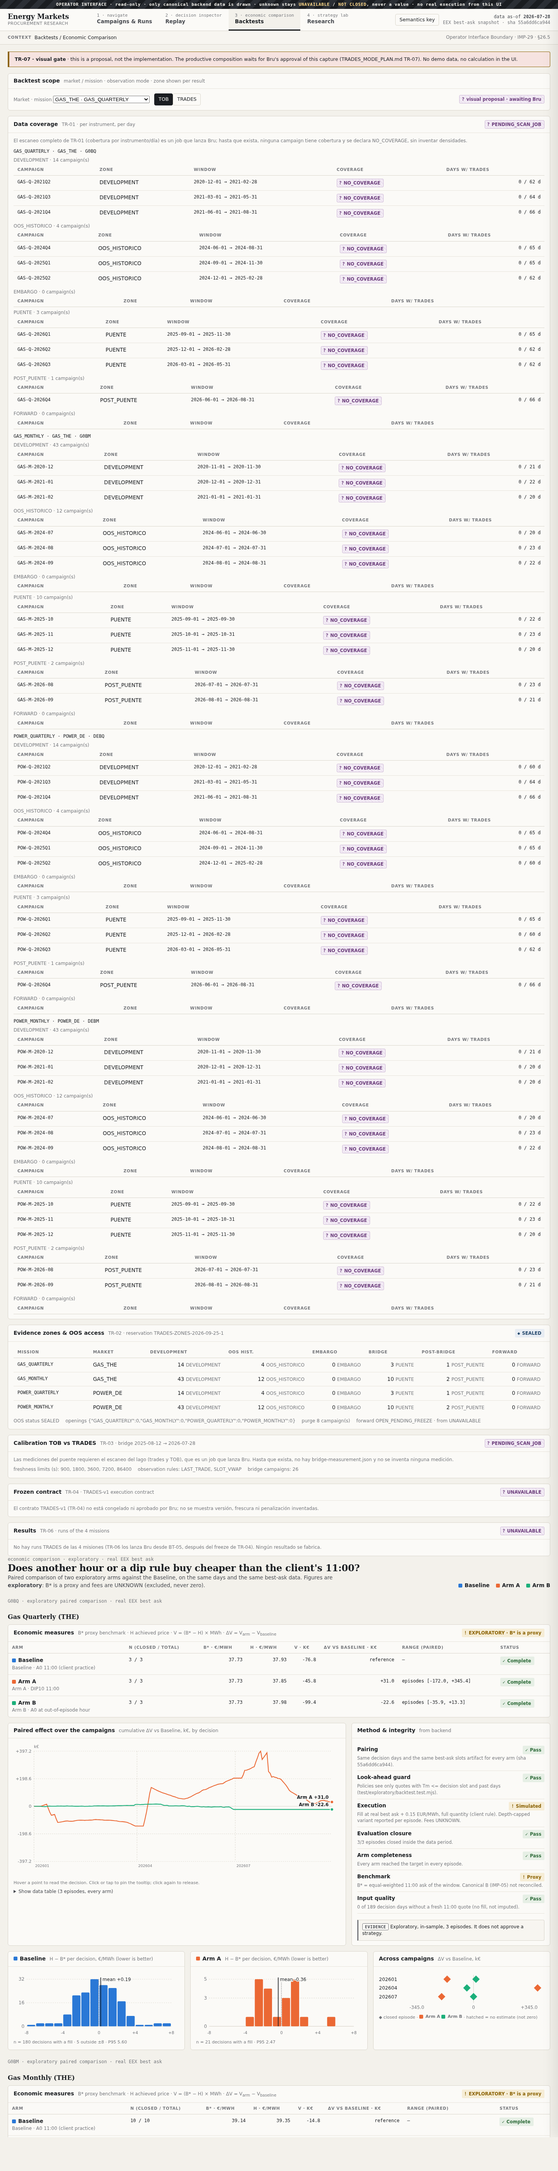
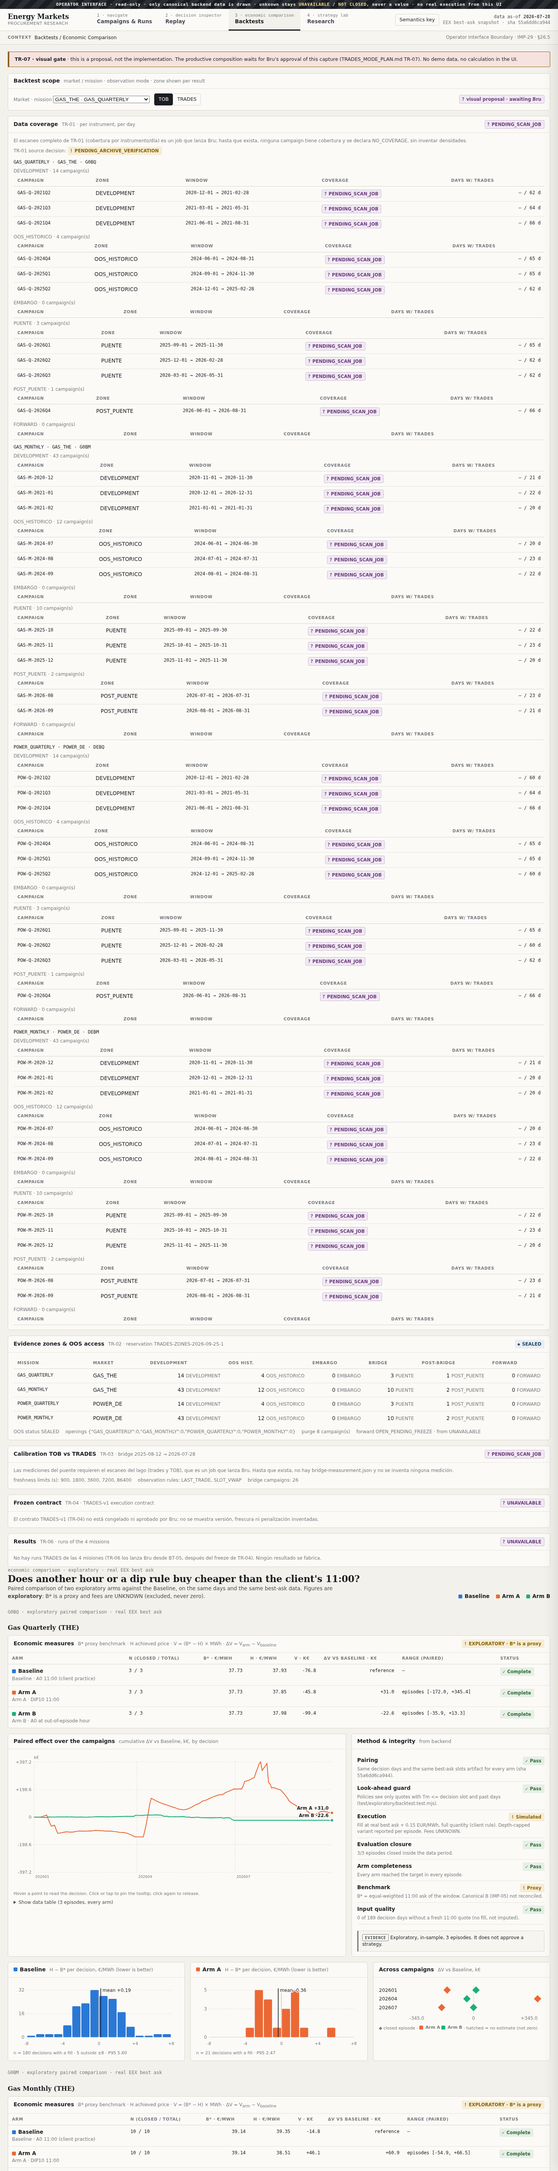
TR-07: corrige el estado de fuente TR-01 y no propaga ceros no medidos

diff --git a/operations/trades/TR-07/prototipo-tr07.html b/operations/trades/TR-07/prototipo-tr07.html
@@ -408,7 +408,8 @@ ul.events-list > li.event:last-child { border-bottom: 0; }
   </div>
   <div class="card" style="margin-top:14px" data-tr07="coverage">
     <div class="hd"><h3>Data coverage</h3><span class="small muted">TR-01 · per instrument, per day</span><span class="grow"></span><span class="st unk"><span class="g">?</span>PENDING_SCAN_JOB</span></div>
-    <div class="bd"><div class="small muted">El escaneo completo de TR-01 (cobertura por instrumento/día) es un job que lanza Bru; hasta que exista, ninguna campaign tiene cobertura y se declara NO_COVERAGE, sin inventar densidades.</div><div style="margin-top:10px"><div class="mono small">GAS_QUARTERLY · GAS_THE · G0BQ</div><div class="small muted" style="margin-top:6px">DEVELOPMENT · 14 campaign(s)</div><table class="t"><thead><tr><th>Campaign</th><th>Zone</th><th>Window</th><th>Coverage</th><th class="right">Days w/ trades</th></tr></thead><tbody><tr><td class="mono small">GAS-Q-2021Q2</td><td>DEVELOPMENT</td><td class="mono small">2020-12-01 → 2021-02-28</td><td><span class="st unk"><span class="g">?</span>NO_COVERAGE</span></td><td class="right mono">0 / 62 d</td></tr><tr><td class="mono small">GAS-Q-2021Q3</td><td>DEVELOPMENT</td><td class="mono small">2021-03-01 → 2021-05-31</td><td><span class="st unk"><span class="g">?</span>NO_COVERAGE</span></td><td class="right mono">0 / 64 d</td></tr><tr><td class="mono small">GAS-Q-2021Q4</td><td>DEVELOPMENT</td><td class="mono small">2021-06-01 → 2021-08-31</td><td><span class="st unk"><span class="g">?</span>NO_COVERAGE</span></td><td class="right mono">0 / 66 d</td></tr></tbody></table><div class="small muted" style="margin-top:6px">OOS_HISTORICO · 4 campaign(s)</div><table class="t"><thead><tr><th>Campaign</th><th>Zone</th><th>Window</th><th>Coverage</th><th class="right">Days w/ trades</th></tr></thead><tbody><tr><td class="mono small">GAS-Q-2024Q4</td><td>OOS_HISTORICO</td><td class="mono small">2024-06-01 → 2024-08-31</td><td><span class="st unk"><span class="g">?</span>NO_COVERAGE</span></td><td class="right mono">0 / 65 d</td></tr><tr><td class="mono small">GAS-Q-2025Q1</td><td>OOS_HISTORICO</td><td class="mono small">2024-09-01 → 2024-11-30</td><td><span class="st unk"><span class="g">?</span>NO_COVERAGE</span></td><td class="right mono">0 / 65 d</td></tr><tr><td class="mono small">GAS-Q-2025Q2</td><td>OOS_HISTORICO</td><td class="mono small">2024-12-01 → 2025-02-28</td><td><span class="st unk"><span class="g">?</span>NO_COVERAGE</span></td><td class="right mono">0 / 62 d</td></tr></tbody></table><div class="small muted" style="margin-top:6px">EMBARGO · 0 campaign(s)</div><table class="t"><thead><tr><th>Campaign</th><th>Zone</th><th>Window</th><th>Coverage</th><th class="right">Days w/ trades</th></tr></thead><tbody></tbody></table><div class="small muted" style="margin-top:6px">PUENTE · 3 campaign(s)</div><table class="t"><thead><tr><th>Campaign</th><th>Zone</th><th>Window</th><th>Coverage</th><th class="right">Days w/ trades</th></tr></thead><tbody><tr><td class="mono small">GAS-Q-2026Q1</td><td>PUENTE</td><td class="mono small">2025-09-01 → 2025-11-30</td><td><span class="st unk"><span class="g">?</span>NO_COVERAGE</span></td><td class="right mono">0 / 65 d</td></tr><tr><td class="mono small">GAS-Q-2026Q2</td><td>PUENTE</td><td class="mono small">2025-12-01 → 2026-02-28</td><td><span class="st unk"><span class="g">?</span>NO_COVERAGE</span></td><td class="right mono">0 / 62 d</td></tr><tr><td class="mono small">GAS-Q-2026Q3</td><td>PUENTE</td><td class="mono small">2026-03-01 → 2026-05-31</td><td><span class="st unk"><span class="g">?</span>NO_COVERAGE</span></td><td class="right mono">0 / 62 d</td></tr></tbody></table><div class="small muted" style="margin-top:6px">POST_PUENTE · 1 campaign(s)</div><table class="t"><thead><tr><th>Campaign</th><th>Zone</th><th>Window</th><th>Coverage</th><th class="right">Days w/ trades</th></tr></thead><tbody><tr><td class="mono small">GAS-Q-2026Q4</td><td>POST_PUENTE</td><td class="mono small">2026-06-01 → 2026-08-31</td><td><span class="st unk"><span class="g">?</span>NO_COVERAGE</span></td><td class="right mono">0 / 66 d</td></tr></tbody></table><div class="small muted" style="margin-top:6px">FORWARD · 0 campaign(s)</div><table class="t"><thead><tr><th>Campaign</th><th>Zone</th><th>Window</th><th>Coverage</th><th class="right">Days w/ trades</th></tr></thead><tbody></tbody></table></div><div style="margin-top:10px"><div class="mono small">GAS_MONTHLY · GAS_THE · G0BM</div><div class="small muted" style="margin-top:6px">DEVELOPMENT · 43 campaign(s)</div><table class="t"><thead><tr><th>Campaign</th><th>Zone</th><th>Window</th><th>Coverage</th><th class="right">Days w/ trades</th></tr></thead><tbody><tr><td class="mono small">GAS-M-2020-12</td><td>DEVELOPMENT</td><td class="mono small">2020-11-01 → 2020-11-30</td><td><span class="st unk"><span class="g">?</span>NO_COVERAGE</span></td><td class="right mono">0 / 21 d</td></tr><tr><td class="mono small">GAS-M-2021-01</td><td>DEVELOPMENT</td><td class="mono small">2020-12-01 → 2020-12-31</td><td><span class="st unk"><span class="g">?</span>NO_COVERAGE</span></td><td class="right mono">0 / 22 d</td></tr><tr><td class="mono small">GAS-M-2021-02</td><td>DEVELOPMENT</td><td class="mono small">2021-01-01 → 2021-01-31</td><td><span class="st unk"><span class="g">?</span>NO_COVERAGE</span></td><td class="right mono">0 / 20 d</td></tr></tbody></table><div class="small muted" style="margin-top:6px">OOS_HISTORICO · 12 campaign(s)</div><table class="t"><thead><tr><th>Campaign</th><th>Zone</th><th>Window</th><th>Coverage</th><th class="right">Days w/ trades</th></tr></thead><tbody><tr><td class="mono small">GAS-M-2024-07</td><td>OOS_HISTORICO</td><td class="mono small">2024-06-01 → 2024-06-30</td><td><span class="st unk"><span class="g">?</span>NO_COVERAGE</span></td><td class="right mono">0 / 20 d</td></tr><tr><td class="mono small">GAS-M-2024-08</td><td>OOS_HISTORICO</td><td class="mono small">2024-07-01 → 2024-07-31</td><td><span class="st unk"><span class="g">?</span>NO_COVERAGE</span></td><td class="right mono">0 / 23 d</td></tr><tr><td class="mono small">GAS-M-2024-09</td><td>OOS_HISTORICO</td><td class="mono small">2024-08-01 → 2024-08-31</td><td><span class="st unk"><span class="g">?</span>NO_COVERAGE</span></td><td class="right mono">0 / 22 d</td></tr></tbody></table><div class="small muted" style="margin-top:6px">EMBARGO · 0 campaign(s)</div><table class="t"><thead><tr><th>Campaign</th><th>Zone</th><th>Window</th><th>Coverage</th><th class="right">Days w/ trades</th></tr></thead><tbody></tbody></table><div class="small muted" style="margin-top:6px">PUENTE · 10 campaign(s)</div><table class="t"><thead><tr><th>Campaign</th><th>Zone</th><th>Window</th><th>Coverage</th><th class="right">Days w/ trades</th></tr></thead><tbody><tr><td class="mono small">GAS-M-2025-10</td><td>PUENTE</td><td class="mono small">2025-09-01 → 2025-09-30</td><td><span class="st unk"><span class="g">?</span>NO_COVERAGE</span></td><td class="right mono">0 / 22 d</td></tr><tr><td class="mono small">GAS-M-2025-11</td><td>PUENTE</td><td class="mono small">2025-10-01 → 2025-10-31</td><td><span class="st unk"><span class="g">?</span>NO_COVERAGE</span></td><td class="right mono">0 / 23 d</td></tr><tr><td class="mono small">GAS-M-2025-12</td><td>PUENTE</td><td class="mono small">2025-11-01 → 2025-11-30</td><td><span class="st unk"><span class="g">?</span>NO_COVERAGE</span></td><td class="right mono">0 / 20 d</td></tr></tbody></table><div class="small muted" style="margin-top:6px">POST_PUENTE · 2 campaign(s)</div><table class="t"><thead><tr><th>Campaign</th><th>Zone</th><th>Window</th><th>Coverage</th><th class="right">Days w/ trades</th></tr></thead><tbody><tr><td class="mono small">GAS-M-2026-08</td><td>POST_PUENTE</td><td class="mono small">2026-07-01 → 2026-07-31</td><td><span class="st unk"><span class="g">?</span>NO_COVERAGE</span></td><td class="right mono">0 / 23 d</td></tr><tr><td class="mono small">GAS-M-2026-09</td><td>POST_PUENTE</td><td class="mono small">2026-08-01 → 2026-08-31</td><td><span class="st unk"><span class="g">?</span>NO_COVERAGE</span></td><td class="right mono">0 / 21 d</td></tr></tbody></table><div class="small muted" style="margin-top:6px">FORWARD · 0 campaign(s)</div><table class="t"><thead><tr><th>Campaign</th><th>Zone</th><th>Window</th><th>Coverage</th><th class="right">Days w/ trades</th></tr></thead><tbody></tbody></table></div><div style="margin-top:10px"><div class="mono small">POWER_QUARTERLY · POWER_DE · DEBQ</div><div class="small muted" style="margin-top:6px">DEVELOPMENT · 14 campaign(s)</div><table class="t"><thead><tr><th>Campaign</th><th>Zone</th><th>Window</th><th>Coverage</th><th class="right">Days w/ trades</th></tr></thead><tbody><tr><td class="mono small">POW-Q-2021Q2</td><td>DEVELOPMENT</td><td class="mono small">2020-12-01 → 2021-02-28</td><td><span class="st unk"><span class="g">?</span>NO_COVERAGE</span></td><td class="right mono">0 / 60 d</td></tr><tr><td class="mono small">POW-Q-2021Q3</td><td>DEVELOPMENT</td><td class="mono small">2021-03-01 → 2021-05-31</td><td><span class="st unk"><span class="g">?</span>NO_COVERAGE</span></td><td class="right mono">0 / 64 d</td></tr><tr><td class="mono small">POW-Q-2021Q4</td><td>DEVELOPMENT</td><td class="mono small">2021-06-01 → 2021-08-31</td><td><span class="st unk"><span class="g">?</span>NO_COVERAGE</span></td><td class="right mono">0 / 66 d</td></tr></tbody></table><div class="small muted" style="margin-top:6px">OOS_HISTORICO · 4 campaign(s)</div><table class="t"><thead><tr><th>Campaign</th><th>Zone</th><th>Window</th><th>Coverage</th><th class="right">Days w/ trades</th></tr></thead><tbody><tr><td class="mono small">POW-Q-2024Q4</td><td>OOS_HISTORICO</td><td class="mono small">2024-06-01 → 2024-08-31</td><td><span class="st unk"><span class="g">?</span>NO_COVERAGE</span></td><td class="right mono">0 / 65 d</td></tr><tr><td class="mono small">POW-Q-2025Q1</td><td>OOS_HISTORICO</td><td class="mono small">2024-09-01 → 2024-11-30</td><td><span class="st unk"><span class="g">?</span>NO_COVERAGE</span></td><td class="right mono">0 / 65 d</td></tr><tr><td class="mono small">POW-Q-2025Q2</td><td>OOS_HISTORICO</td><td class="mono small">2024-12-01 → 2025-02-28</td><td><span class="st unk"><span class="g">?</span>NO_COVERAGE</span></td><td class="right mono">0 / 60 d</td></tr></tbody></table><div class="small muted" style="margin-top:6px">EMBARGO · 0 campaign(s)</div><table class="t"><thead><tr><th>Campaign</th><th>Zone</th><th>Window</th><th>Coverage</th><th class="right">Days w/ trades</th></tr></thead><tbody></tbody></table><div class="small muted" style="margin-top:6px">PUENTE · 3 campaign(s)</div><table class="t"><thead><tr><th>Campaign</th><th>Zone</th><th>Window</th><th>Coverage</th><th class="right">Days w/ trades</th></tr></thead><tbody><tr><td class="mono small">POW-Q-2026Q1</td><td>PUENTE</td><td class="mono small">2025-09-01 → 2025-11-30</td><td><span class="st unk"><span class="g">?</span>NO_COVERAGE</span></td><td class="right mono">0 / 65 d</td></tr><tr><td class="mono small">POW-Q-2026Q2</td><td>PUENTE</td><td class="mono small">2025-12-01 → 2026-02-28</td><td><span class="st unk"><span class="g">?</span>NO_COVERAGE</span></td><td class="right mono">0 / 60 d</td></tr><tr><td class="mono small">POW-Q-2026Q3</td><td>PUENTE</td><td class="mono small">2026-03-01 → 2026-05-31</td><td><span class="st unk"><span class="g">?</span>NO_COVERAGE</span></td><td class="right mono">0 / 62 d</td></tr></tbody></table><div class="small muted" style="margin-top:6px">POST_PUENTE · 1 campaign(s)</div><table class="t"><thead><tr><th>Campaign</th><th>Zone</th><th>Window</th><th>Coverage</th><th class="right">Days w/ trades</th></tr></thead><tbody><tr><td class="mono small">POW-Q-2026Q4</td><td>POST_PUENTE</td><td class="mono small">2026-06-01 → 2026-08-31</td><td><span class="st unk"><span class="g">?</span>NO_COVERAGE</span></td><td class="right mono">0 / 66 d</td></tr></tbody></table><div class="small muted" style="margin-top:6px">FORWARD · 0 campaign(s)</div><table class="t"><thead><tr><th>Campaign</th><th>Zone</th><th>Window</th><th>Coverage</th><th class="right">Days w/ trades</th></tr></thead><tbody></tbody></table></div><div style="margin-top:10px"><div class="mono small">POWER_MONTHLY · POWER_DE · DEBM</div><div class="small muted" style="margin-top:6px">DEVELOPMENT · 43 campaign(s)</div><table class="t"><thead><tr><th>Campaign</th><th>Zone</th><th>Window</th><th>Coverage</th><th class="right">Days w/ trades</th></tr></thead><tbody><tr><td class="mono small">POW-M-2020-12</td><td>DEVELOPMENT</td><td class="mono small">2020-11-01 → 2020-11-30</td><td><span class="st unk"><span class="g">?</span>NO_COVERAGE</span></td><td class="right mono">0 / 21 d</td></tr><tr><td class="mono small">POW-M-2021-01</td><td>DEVELOPMENT</td><td class="mono small">2020-12-01 → 2020-12-31</td><td><span class="st unk"><span class="g">?</span>NO_COVERAGE</span></td><td class="right mono">0 / 20 d</td></tr><tr><td class="mono small">POW-M-2021-02</td><td>DEVELOPMENT</td><td class="mono small">2021-01-01 → 2021-01-31</td><td><span class="st unk"><span class="g">?</span>NO_COVERAGE</span></td><td class="right mono">0 / 20 d</td></tr></tbody></table><div class="small muted" style="margin-top:6px">OOS_HISTORICO · 12 campaign(s)</div><table class="t"><thead><tr><th>Campaign</th><th>Zone</th><th>Window</th><th>Coverage</th><th class="right">Days w/ trades</th></tr></thead><tbody><tr><td class="mono small">POW-M-2024-07</td><td>OOS_HISTORICO</td><td class="mono small">2024-06-01 → 2024-06-30</td><td><span class="st unk"><span class="g">?</span>NO_COVERAGE</span></td><td class="right mono">0 / 20 d</td></tr><tr><td class="mono small">POW-M-2024-08</td><td>OOS_HISTORICO</td><td class="mono small">2024-07-01 → 2024-07-31</td><td><span class="st unk"><span class="g">?</span>NO_COVERAGE</span></td><td class="right mono">0 / 23 d</td></tr><tr><td class="mono small">POW-M-2024-09</td><td>OOS_HISTORICO</td><td class="mono small">2024-08-01 → 2024-08-31</td><td><span class="st unk"><span class="g">?</span>NO_COVERAGE</span></td><td class="right mono">0 / 22 d</td></tr></tbody></table><div class="small muted" style="margin-top:6px">EMBARGO · 0 campaign(s)</div><table class="t"><thead><tr><th>Campaign</th><th>Zone</th><th>Window</th><th>Coverage</th><th class="right">Days w/ trades</th></tr></thead><tbody></tbody></table><div class="small muted" style="margin-top:6px">PUENTE · 10 campaign(s)</div><table class="t"><thead><tr><th>Campaign</th><th>Zone</th><th>Window</th><th>Coverage</th><th class="right">Days w/ trades</th></tr></thead><tbody><tr><td class="mono small">POW-M-2025-10</td><td>PUENTE</td><td class="mono small">2025-09-01 → 2025-09-30</td><td><span class="st unk"><span class="g">?</span>NO_COVERAGE</span></td><td class="right mono">0 / 22 d</td></tr><tr><td class="mono small">POW-M-2025-11</td><td>PUENTE</td><td class="mono small">2025-10-01 → 2025-10-31</td><td><span class="st unk"><span class="g">?</span>NO_COVERAGE</span></td><td class="right mono">0 / 23 d</td></tr><tr><td class="mono small">POW-M-2025-12</td><td>PUENTE</td><td class="mono small">2025-11-01 → 2025-11-30</td><td><span class="st unk"><span class="g">?</span>NO_COVERAGE</span></td><td class="right mono">0 / 20 d</td></tr></tbody></table><div class="small muted" style="margin-top:6px">POST_PUENTE · 2 campaign(s)</div><table class="t"><thead><tr><th>Campaign</th><th>Zone</th><th>Window</th><th>Coverage</th><th class="right">Days w/ trades</th></tr></thead><tbody><tr><td class="mono small">POW-M-2026-08</td><td>POST_PUENTE</td><td class="mono small">2026-07-01 → 2026-07-31</td><td><span class="st unk"><span class="g">?</span>NO_COVERAGE</span></td><td class="right mono">0 / 23 d</td></tr><tr><td class="mono small">POW-M-2026-09</td><td>POST_PUENTE</td><td class="mono small">2026-08-01 → 2026-08-31</td><td><span class="st unk"><span class="g">?</span>NO_COVERAGE</span></td><td class="right mono">0 / 21 d</td></tr></tbody></table><div class="small muted" style="margin-top:6px">FORWARD · 0 campaign(s)</div><table class="t"><thead><tr><th>Campaign</th><th>Zone</th><th>Window</th><th>Coverage</th><th class="right">Days w/ trades</th></tr></thead><tbody></tbody></table></div></div>
+    <div class="bd"><div class="small muted">El escaneo completo de TR-01 (cobertura por instrumento/día) es un job que lanza Bru; hasta que exista, ninguna campaign tiene cobertura y se declara NO_COVERAGE, sin inventar densidades.</div>
+      <div class="small muted" style="margin-top:6px">TR-01 source decision: <span class="st warn"><span class="g">!</span>PENDING_ARCHIVE_VERIFICATION</span></div><div style="margin-top:10px"><div class="mono small">GAS_QUARTERLY · GAS_THE · G0BQ</div><div class="small muted" style="margin-top:6px">DEVELOPMENT · 14 campaign(s)</div><table class="t"><thead><tr><th>Campaign</th><th>Zone</th><th>Window</th><th>Coverage</th><th class="right">Days w/ trades</th></tr></thead><tbody><tr><td class="mono small">GAS-Q-2021Q2</td><td>DEVELOPMENT</td><td class="mono small">2020-12-01 → 2021-02-28</td><td><span class="st unk"><span class="g">?</span>PENDING_SCAN_JOB</span></td><td class="right mono">— / 62 d</td></tr><tr><td class="mono small">GAS-Q-2021Q3</td><td>DEVELOPMENT</td><td class="mono small">2021-03-01 → 2021-05-31</td><td><span class="st unk"><span class="g">?</span>PENDING_SCAN_JOB</span></td><td class="right mono">— / 64 d</td></tr><tr><td class="mono small">GAS-Q-2021Q4</td><td>DEVELOPMENT</td><td class="mono small">2021-06-01 → 2021-08-31</td><td><span class="st unk"><span class="g">?</span>PENDING_SCAN_JOB</span></td><td class="right mono">— / 66 d</td></tr></tbody></table><div class="small muted" style="margin-top:6px">OOS_HISTORICO · 4 campaign(s)</div><table class="t"><thead><tr><th>Campaign</th><th>Zone</th><th>Window</th><th>Coverage</th><th class="right">Days w/ trades</th></tr></thead><tbody><tr><td class="mono small">GAS-Q-2024Q4</td><td>OOS_HISTORICO</td><td class="mono small">2024-06-01 → 2024-08-31</td><td><span class="st unk"><span class="g">?</span>PENDING_SCAN_JOB</span></td><td class="right mono">— / 65 d</td></tr><tr><td class="mono small">GAS-Q-2025Q1</td><td>OOS_HISTORICO</td><td class="mono small">2024-09-01 → 2024-11-30</td><td><span class="st unk"><span class="g">?</span>PENDING_SCAN_JOB</span></td><td class="right mono">— / 65 d</td></tr><tr><td class="mono small">GAS-Q-2025Q2</td><td>OOS_HISTORICO</td><td class="mono small">2024-12-01 → 2025-02-28</td><td><span class="st unk"><span class="g">?</span>PENDING_SCAN_JOB</span></td><td class="right mono">— / 62 d</td></tr></tbody></table><div class="small muted" style="margin-top:6px">EMBARGO · 0 campaign(s)</div><table class="t"><thead><tr><th>Campaign</th><th>Zone</th><th>Window</th><th>Coverage</th><th class="right">Days w/ trades</th></tr></thead><tbody></tbody></table><div class="small muted" style="margin-top:6px">PUENTE · 3 campaign(s)</div><table class="t"><thead><tr><th>Campaign</th><th>Zone</th><th>Window</th><th>Coverage</th><th class="right">Days w/ trades</th></tr></thead><tbody><tr><td class="mono small">GAS-Q-2026Q1</td><td>PUENTE</td><td class="mono small">2025-09-01 → 2025-11-30</td><td><span class="st unk"><span class="g">?</span>PENDING_SCAN_JOB</span></td><td class="right mono">— / 65 d</td></tr><tr><td class="mono small">GAS-Q-2026Q2</td><td>PUENTE</td><td class="mono small">2025-12-01 → 2026-02-28</td><td><span class="st unk"><span class="g">?</span>PENDING_SCAN_JOB</span></td><td class="right mono">— / 62 d</td></tr><tr><td class="mono small">GAS-Q-2026Q3</td><td>PUENTE</td><td class="mono small">2026-03-01 → 2026-05-31</td><td><span class="st unk"><span class="g">?</span>PENDING_SCAN_JOB</span></td><td class="right mono">— / 62 d</td></tr></tbody></table><div class="small muted" style="margin-top:6px">POST_PUENTE · 1 campaign(s)</div><table class="t"><thead><tr><th>Campaign</th><th>Zone</th><th>Window</th><th>Coverage</th><th class="right">Days w/ trades</th></tr></thead><tbody><tr><td class="mono small">GAS-Q-2026Q4</td><td>POST_PUENTE</td><td class="mono small">2026-06-01 → 2026-08-31</td><td><span class="st unk"><span class="g">?</span>PENDING_SCAN_JOB</span></td><td class="right mono">— / 66 d</td></tr></tbody></table><div class="small muted" style="margin-top:6px">FORWARD · 0 campaign(s)</div><table class="t"><thead><tr><th>Campaign</th><th>Zone</th><th>Window</th><th>Coverage</th><th class="right">Days w/ trades</th></tr></thead><tbody></tbody></table></div><div style="margin-top:10px"><div class="mono small">GAS_MONTHLY · GAS_THE · G0BM</div><div class="small muted" style="margin-top:6px">DEVELOPMENT · 43 campaign(s)</div><table class="t"><thead><tr><th>Campaign</th><th>Zone</th><th>Window</th><th>Coverage</th><th class="right">Days w/ trades</th></tr></thead><tbody><tr><td class="mono small">GAS-M-2020-12</td><td>DEVELOPMENT</td><td class="mono small">2020-11-01 → 2020-11-30</td><td><span class="st unk"><span class="g">?</span>PENDING_SCAN_JOB</span></td><td class="right mono">— / 21 d</td></tr><tr><td class="mono small">GAS-M-2021-01</td><td>DEVELOPMENT</td><td class="mono small">2020-12-01 → 2020-12-31</td><td><span class="st unk"><span class="g">?</span>PENDING_SCAN_JOB</span></td><td class="right mono">— / 22 d</td></tr><tr><td class="mono small">GAS-M-2021-02</td><td>DEVELOPMENT</td><td class="mono small">2021-01-01 → 2021-01-31</td><td><span class="st unk"><span class="g">?</span>PENDING_SCAN_JOB</span></td><td class="right mono">— / 20 d</td></tr></tbody></table><div class="small muted" style="margin-top:6px">OOS_HISTORICO · 12 campaign(s)</div><table class="t"><thead><tr><th>Campaign</th><th>Zone</th><th>Window</th><th>Coverage</th><th class="right">Days w/ trades</th></tr></thead><tbody><tr><td class="mono small">GAS-M-2024-07</td><td>OOS_HISTORICO</td><td class="mono small">2024-06-01 → 2024-06-30</td><td><span class="st unk"><span class="g">?</span>PENDING_SCAN_JOB</span></td><td class="right mono">— / 20 d</td></tr><tr><td class="mono small">GAS-M-2024-08</td><td>OOS_HISTORICO</td><td class="mono small">2024-07-01 → 2024-07-31</td><td><span class="st unk"><span class="g">?</span>PENDING_SCAN_JOB</span></td><td class="right mono">— / 23 d</td></tr><tr><td class="mono small">GAS-M-2024-09</td><td>OOS_HISTORICO</td><td class="mono small">2024-08-01 → 2024-08-31</td><td><span class="st unk"><span class="g">?</span>PENDING_SCAN_JOB</span></td><td class="right mono">— / 22 d</td></tr></tbody></table><div class="small muted" style="margin-top:6px">EMBARGO · 0 campaign(s)</div><table class="t"><thead><tr><th>Campaign</th><th>Zone</th><th>Window</th><th>Coverage</th><th class="right">Days w/ trades</th></tr></thead><tbody></tbody></table><div class="small muted" style="margin-top:6px">PUENTE · 10 campaign(s)</div><table class="t"><thead><tr><th>Campaign</th><th>Zone</th><th>Window</th><th>Coverage</th><th class="right">Days w/ trades</th></tr></thead><tbody><tr><td class="mono small">GAS-M-2025-10</td><td>PUENTE</td><td class="mono small">2025-09-01 → 2025-09-30</td><td><span class="st unk"><span class="g">?</span>PENDING_SCAN_JOB</span></td><td class="right mono">— / 22 d</td></tr><tr><td class="mono small">GAS-M-2025-11</td><td>PUENTE</td><td class="mono small">2025-10-01 → 2025-10-31</td><td><span class="st unk"><span class="g">?</span>PENDING_SCAN_JOB</span></td><td class="right mono">— / 23 d</td></tr><tr><td class="mono small">GAS-M-2025-12</td><td>PUENTE</td><td class="mono small">2025-11-01 → 2025-11-30</td><td><span class="st unk"><span class="g">?</span>PENDING_SCAN_JOB</span></td><td class="right mono">— / 20 d</td></tr></tbody></table><div class="small muted" style="margin-top:6px">POST_PUENTE · 2 campaign(s)</div><table class="t"><thead><tr><th>Campaign</th><th>Zone</th><th>Window</th><th>Coverage</th><th class="right">Days w/ trades</th></tr></thead><tbody><tr><td class="mono small">GAS-M-2026-08</td><td>POST_PUENTE</td><td class="mono small">2026-07-01 → 2026-07-31</td><td><span class="st unk"><span class="g">?</span>PENDING_SCAN_JOB</span></td><td class="right mono">— / 23 d</td></tr><tr><td class="mono small">GAS-M-2026-09</td><td>POST_PUENTE</td><td class="mono small">2026-08-01 → 2026-08-31</td><td><span class="st unk"><span class="g">?</span>PENDING_SCAN_JOB</span></td><td class="right mono">— / 21 d</td></tr></tbody></table><div class="small muted" style="margin-top:6px">FORWARD · 0 campaign(s)</div><table class="t"><thead><tr><th>Campaign</th><th>Zone</th><th>Window</th><th>Coverage</th><th class="right">Days w/ trades</th></tr></thead><tbody></tbody></table></div><div style="margin-top:10px"><div class="mono small">POWER_QUARTERLY · POWER_DE · DEBQ</div><div class="small muted" style="margin-top:6px">DEVELOPMENT · 14 campaign(s)</div><table class="t"><thead><tr><th>Campaign</th><th>Zone</th><th>Window</th><th>Coverage</th><th class="right">Days w/ trades</th></tr></thead><tbody><tr><td class="mono small">POW-Q-2021Q2</td><td>DEVELOPMENT</td><td class="mono small">2020-12-01 → 2021-02-28</td><td><span class="st unk"><span class="g">?</span>PENDING_SCAN_JOB</span></td><td class="right mono">— / 60 d</td></tr><tr><td class="mono small">POW-Q-2021Q3</td><td>DEVELOPMENT</td><td class="mono small">2021-03-01 → 2021-05-31</td><td><span class="st unk"><span class="g">?</span>PENDING_SCAN_JOB</span></td><td class="right mono">— / 64 d</td></tr><tr><td class="mono small">POW-Q-2021Q4</td><td>DEVELOPMENT</td><td class="mono small">2021-06-01 → 2021-08-31</td><td><span class="st unk"><span class="g">?</span>PENDING_SCAN_JOB</span></td><td class="right mono">— / 66 d</td></tr></tbody></table><div class="small muted" style="margin-top:6px">OOS_HISTORICO · 4 campaign(s)</div><table class="t"><thead><tr><th>Campaign</th><th>Zone</th><th>Window</th><th>Coverage</th><th class="right">Days w/ trades</th></tr></thead><tbody><tr><td class="mono small">POW-Q-2024Q4</td><td>OOS_HISTORICO</td><td class="mono small">2024-06-01 → 2024-08-31</td><td><span class="st unk"><span class="g">?</span>PENDING_SCAN_JOB</span></td><td class="right mono">— / 65 d</td></tr><tr><td class="mono small">POW-Q-2025Q1</td><td>OOS_HISTORICO</td><td class="mono small">2024-09-01 → 2024-11-30</td><td><span class="st unk"><span class="g">?</span>PENDING_SCAN_JOB</span></td><td class="right mono">— / 65 d</td></tr><tr><td class="mono small">POW-Q-2025Q2</td><td>OOS_HISTORICO</td><td class="mono small">2024-12-01 → 2025-02-28</td><td><span class="st unk"><span class="g">?</span>PENDING_SCAN_JOB</span></td><td class="right mono">— / 60 d</td></tr></tbody></table><div class="small muted" style="margin-top:6px">EMBARGO · 0 campaign(s)</div><table class="t"><thead><tr><th>Campaign</th><th>Zone</th><th>Window</th><th>Coverage</th><th class="right">Days w/ trades</th></tr></thead><tbody></tbody></table><div class="small muted" style="margin-top:6px">PUENTE · 3 campaign(s)</div><table class="t"><thead><tr><th>Campaign</th><th>Zone</th><th>Window</th><th>Coverage</th><th class="right">Days w/ trades</th></tr></thead><tbody><tr><td class="mono small">POW-Q-2026Q1</td><td>PUENTE</td><td class="mono small">2025-09-01 → 2025-11-30</td><td><span class="st unk"><span class="g">?</span>PENDING_SCAN_JOB</span></td><td class="right mono">— / 65 d</td></tr><tr><td class="mono small">POW-Q-2026Q2</td><td>PUENTE</td><td class="mono small">2025-12-01 → 2026-02-28</td><td><span class="st unk"><span class="g">?</span>PENDING_SCAN_JOB</span></td><td class="right mono">— / 60 d</td></tr><tr><td class="mono small">POW-Q-2026Q3</td><td>PUENTE</td><td class="mono small">2026-03-01 → 2026-05-31</td><td><span class="st unk"><span class="g">?</span>PENDING_SCAN_JOB</span></td><td class="right mono">— / 62 d</td></tr></tbody></table><div class="small muted" style="margin-top:6px">POST_PUENTE · 1 campaign(s)</div><table class="t"><thead><tr><th>Campaign</th><th>Zone</th><th>Window</th><th>Coverage</th><th class="right">Days w/ trades</th></tr></thead><tbody><tr><td class="mono small">POW-Q-2026Q4</td><td>POST_PUENTE</td><td class="mono small">2026-06-01 → 2026-08-31</td><td><span class="st unk"><span class="g">?</span>PENDING_SCAN_JOB</span></td><td class="right mono">— / 66 d</td></tr></tbody></table><div class="small muted" style="margin-top:6px">FORWARD · 0 campaign(s)</div><table class="t"><thead><tr><th>Campaign</th><th>Zone</th><th>Window</th><th>Coverage</th><th class="right">Days w/ trades</th></tr></thead><tbody></tbody></table></div><div style="margin-top:10px"><div class="mono small">POWER_MONTHLY · POWER_DE · DEBM</div><div class="small muted" style="margin-top:6px">DEVELOPMENT · 43 campaign(s)</div><table class="t"><thead><tr><th>Campaign</th><th>Zone</th><th>Window</th><th>Coverage</th><th class="right">Days w/ trades</th></tr></thead><tbody><tr><td class="mono small">POW-M-2020-12</td><td>DEVELOPMENT</td><td class="mono small">2020-11-01 → 2020-11-30</td><td><span class="st unk"><span class="g">?</span>PENDING_SCAN_JOB</span></td><td class="right mono">— / 21 d</td></tr><tr><td class="mono small">POW-M-2021-01</td><td>DEVELOPMENT</td><td class="mono small">2020-12-01 → 2020-12-31</td><td><span class="st unk"><span class="g">?</span>PENDING_SCAN_JOB</span></td><td class="right mono">— / 20 d</td></tr><tr><td class="mono small">POW-M-2021-02</td><td>DEVELOPMENT</td><td class="mono small">2021-01-01 → 2021-01-31</td><td><span class="st unk"><span class="g">?</span>PENDING_SCAN_JOB</span></td><td class="right mono">— / 20 d</td></tr></tbody></table><div class="small muted" style="margin-top:6px">OOS_HISTORICO · 12 campaign(s)</div><table class="t"><thead><tr><th>Campaign</th><th>Zone</th><th>Window</th><th>Coverage</th><th class="right">Days w/ trades</th></tr></thead><tbody><tr><td class="mono small">POW-M-2024-07</td><td>OOS_HISTORICO</td><td class="mono small">2024-06-01 → 2024-06-30</td><td><span class="st unk"><span class="g">?</span>PENDING_SCAN_JOB</span></td><td class="right mono">— / 20 d</td></tr><tr><td class="mono small">POW-M-2024-08</td><td>OOS_HISTORICO</td><td class="mono small">2024-07-01 → 2024-07-31</td><td><span class="st unk"><span class="g">?</span>PENDING_SCAN_JOB</span></td><td class="right mono">— / 23 d</td></tr><tr><td class="mono small">POW-M-2024-09</td><td>OOS_HISTORICO</td><td class="mono small">2024-08-01 → 2024-08-31</td><td><span class="st unk"><span class="g">?</span>PENDING_SCAN_JOB</span></td><td class="right mono">— / 22 d</td></tr></tbody></table><div class="small muted" style="margin-top:6px">EMBARGO · 0 campaign(s)</div><table class="t"><thead><tr><th>Campaign</th><th>Zone</th><th>Window</th><th>Coverage</th><th class="right">Days w/ trades</th></tr></thead><tbody></tbody></table><div class="small muted" style="margin-top:6px">PUENTE · 10 campaign(s)</div><table class="t"><thead><tr><th>Campaign</th><th>Zone</th><th>Window</th><th>Coverage</th><th class="right">Days w/ trades</th></tr></thead><tbody><tr><td class="mono small">POW-M-2025-10</td><td>PUENTE</td><td class="mono small">2025-09-01 → 2025-09-30</td><td><span class="st unk"><span class="g">?</span>PENDING_SCAN_JOB</span></td><td class="right mono">— / 22 d</td></tr><tr><td class="mono small">POW-M-2025-11</td><td>PUENTE</td><td class="mono small">2025-10-01 → 2025-10-31</td><td><span class="st unk"><span class="g">?</span>PENDING_SCAN_JOB</span></td><td class="right mono">— / 23 d</td></tr><tr><td class="mono small">POW-M-2025-12</td><td>PUENTE</td><td class="mono small">2025-11-01 → 2025-11-30</td><td><span class="st unk"><span class="g">?</span>PENDING_SCAN_JOB</span></td><td class="right mono">— / 20 d</td></tr></tbody></table><div class="small muted" style="margin-top:6px">POST_PUENTE · 2 campaign(s)</div><table class="t"><thead><tr><th>Campaign</th><th>Zone</th><th>Window</th><th>Coverage</th><th class="right">Days w/ trades</th></tr></thead><tbody><tr><td class="mono small">POW-M-2026-08</td><td>POST_PUENTE</td><td class="mono small">2026-07-01 → 2026-07-31</td><td><span class="st unk"><span class="g">?</span>PENDING_SCAN_JOB</span></td><td class="right mono">— / 23 d</td></tr><tr><td class="mono small">POW-M-2026-09</td><td>POST_PUENTE</td><td class="mono small">2026-08-01 → 2026-08-31</td><td><span class="st unk"><span class="g">?</span>PENDING_SCAN_JOB</span></td><td class="right mono">— / 21 d</td></tr></tbody></table><div class="small muted" style="margin-top:6px">FORWARD · 0 campaign(s)</div><table class="t"><thead><tr><th>Campaign</th><th>Zone</th><th>Window</th><th>Coverage</th><th class="right">Days w/ trades</th></tr></thead><tbody></tbody></table></div></div>
   </div>
   <div class="card" style="margin-top:14px" data-tr07="zones">
     <div class="hd"><h3>Evidence zones &amp; OOS access</h3><span class="small muted">TR-02 · reservation TRADES-ZONES-2026-09-25-1</span><span class="grow"></span><span class="st run"><span class="g">◆</span>SEALED</span></div>
